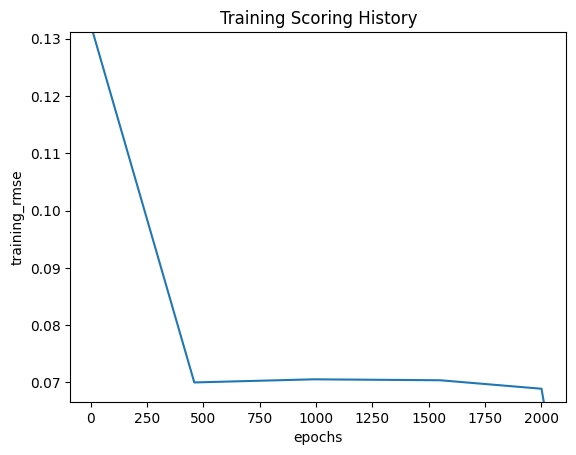
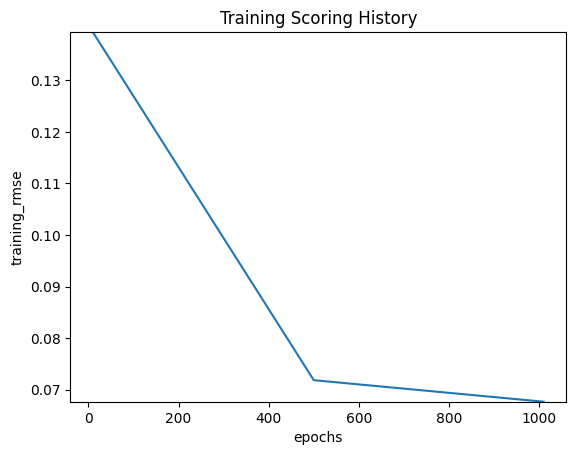
changed selected cols 2, add binder and dipsersant. Added  col_dtypes config for h2o.

diff --git a/analysis_model.py b/analysis_model.py
@@ -11,7 +11,7 @@ import numpy as np
 # Load generated df
 DataParser = data_parser.DataParser()
 df = DataParser.load_complete_data_from_pickle()
-df = df[DataParser.selected_cols]
+df = df[DataParser.selected_cols_v2]
 df = DataParser.preprocess_dropna(df)
 opt_save = True
 selected_models_seed = 42
@@ -49,6 +49,7 @@ for model in models:
     data['mae'] = perf[perf[''] == 'mae']['mean'].values[0]
     data['mae_t'] = model.split("_")[4]
     data['mrd'] = models[model].mean_residual_deviance()
+    data['mrd'] = perf[perf[''] == 'mean_residual_deviance']['mean'].values[0]
     data['mrd_t'] = model.split("_")[5]
     new_row = df_r.from_dict([data])
     df_r = pd.concat([df_r, new_row], ignore_index=True)
@@ -59,10 +60,15 @@ for model in models:
         # if model.split("_")[0] == "DLE":
         #     continue
         df_var_importance = pd.concat([df_var_importance, var_importance], ignore_index=True)
+    print(model, "\n", models[model].cross_validation_metrics_summary())
 
 # Test best models for selected seed and compare
 # Load DF
-h2o_data = h2o.H2OFrame(df, destination_frame="CatNum")
+col_dtypes = {'name_part1': 'enum', 'name_part2': 'enum', 'name_fluid1': 'enum',
+              'material_group': 'enum', 'temp_cold': 'numeric', 'cooling_rate': 'numeric', 'time_sub': 'numeric',
+              'time_sinter_1': 'numeric', 'vf_total': 'numeric', 'porosity': 'numeric'}
+
+h2o_data = h2o.H2OFrame(df, destination_frame="CatNum", column_types=col_dtypes)
 train, test, valid = h2o_data.split_frame([0.7, 0.15], seed=selected_models_seed)
 train_valid = h2o.H2OFrame.rbind(train, valid)
 
@@ -82,7 +88,8 @@ for model_path in selected_seed_models:
     model_name = model_path.split('\\')[-1]
     model_type = model_path.split("_")[0]
     if model_type in ['GBM', "DRF"]:
-        models[model_name].download_mojo('mojos')  # download mojos  # Sometimes has to manual download: Run this line in console rather than script
+        models[model_name].download_mojo(
+            'mojos')  # download mojos  # Sometimes has to manual download: Run this line in console rather than script
     predicted = models[model_name].predict(test).as_data_frame()
 
     # Model Results
@@ -101,7 +108,7 @@ for model_path in selected_seed_models:
     df_true = pd.concat([df_true, df_model_results], axis=1)
     df_true = df_true.loc[:, ~df_true.columns.duplicated()]  # remove duplicate columns
     # Model performance plot
-    plt.figure(figsize=(8, 8))
+    plt.figure(figsize=(18, 12))
     ax = sns.scatterplot(x='porosity', y=model_type, data=df_true, hue=f'error_abs_{model_type}', palette=pallete)
     norm = plt.Normalize(0, 0.4)  # set min and max for color_bar
     sm = plt.cm.ScalarMappable(cmap=pallete, norm=norm)
@@ -118,10 +125,11 @@ for model_path in selected_seed_models:
     plt.savefig(f'images/results/{model_type}_perf', bbox_inches='tight')
 
     # Error distribution plot
-    plt.figure(figsize=(8, 8))
+    plt.figure(figsize=(18, 12))
     top3_material_group = df_true.material_group.value_counts().iloc[:3].index.to_list()
     df_true_mg = df_true[(df_true['material_group'].isin(top3_material_group))]
-    bx = sns.histplot(data=df_true_mg, x=f"error_{model_type}", hue="material_group", bins=20)
+    bx = sns.histplot(data=df_true_mg, x=f"error_{model_type}", hue="material_group", bins=20,
+                      palette=sns.color_palette("hls", 3))
     bx.set_xlabel("Error", fontsize=20)
     bx.set_ylabel(f"Sample count - {model_type} - seed 42", fontsize=20)
     bx.tick_params(labelsize=20)
@@ -130,31 +138,27 @@ for model_path in selected_seed_models:
     plt.show()
     plt.savefig(f'images/results/{model_type}_error', bbox_inches='tight')
 
-# # Generate Mojos for Decision Tress
-# models["DRF_2209171340_42_0.6664_0.0848_0.0124"].download_mojo('mojos')
-# models["GBM_2209171448_42_0.6315_0.0834_0.0145"].download_mojo('mojos')
+    """Importances"""""
+    df_r[['r2', 'r2_t', 'mae', 'mae_t', 'mrd', 'mrd_t']] = df_r[['r2', 'r2_t', 'mae', 'mae_t', 'mrd', 'mrd_t']].astype(
+        "float")
 
+    # df_grouped = df_var_importance.groupby('variable').mean()
+    df_imp = df_var_importance[df_var_importance['model_type'] == model_type]
+    top_variables = df_imp.groupby('variable')['scaled_importance'].mean().nlargest(15).index.to_list()
+    top_df = df_imp.loc[df_imp['variable'].isin(top_variables)]
+    sns.set(font_scale=1.2)
+    g = sns.catplot(data=top_df, kind="bar", x="variable", y="scaled_importance", hue="model_type",
+                    palette=sns.color_palette("hls", 3))
+    sns.set(rc={'figure.figsize': (18, 12)})
+    plt.tight_layout()
+    g.set_axis_labels("Parameters", "Scaled Importance - Decision Trees")
+    g.set_xticklabels(rotation=40, ha="right")
+    sns.move_legend(g, "upper right")
+    plt.subplots_adjust(bottom=0.4)
+    plt.show()
+    plt.savefig(f'images/results/{model_type}_scaled_importance_trees.png', bbox_inches='tight')
 
 # ################################## Generate Results and Tables
-# Scaled importance Group
-df_r[['r2', 'r2_t', 'mae', 'mae_t', 'mrd', 'mrd_t']] = df_r[['r2', 'r2_t', 'mae', 'mae_t', 'mrd', 'mrd_t']].astype(
-    "float")
-
-# df_grouped = df_var_importance.groupby('variable').mean()
-top_10_variables = df_var_importance.groupby('variable')['scaled_importance'].mean()  # .nlargest(2)
-sns.set(font_scale=1.2)
-
-g = sns.catplot(data=df_var_importance, kind="bar", x="variable", y="scaled_importance", hue="model_type",
-                palette=sns.color_palette("hls", 3))
-sns.set(rc={'figure.figsize': (10, 10)})
-plt.tight_layout()
-g.set_axis_labels("Parameters", "Scaled Importance")
-g.set_xticklabels(rotation=40, ha="right")
-sns.move_legend(g, "upper right")
-plt.subplots_adjust(bottom=0.4)
-plt.show()
-plt.savefig('images/results/scaled_importance.png', bbox_inches='tight')
-
 # Model Group Results, prints and tables
 pd.set_option('display.float_format', lambda x: '%.3g' % x)
 df_r['Δr2'] = df_r['r2'] - df_r['r2_t']

diff --git a/create_model_AutoML.py b/create_model_AutoML.py
@@ -18,11 +18,15 @@ ratios = [0.7, 0.15]  # training ratios [train (valid+test)/2]
 start = time.time()
 h2o.init(nthreads=-1, min_mem_size="8g")
 # Split the dataset into a train and valid set:
-h2o_data = h2o.H2OFrame(df, destination_frame="CatNum")
+col_dtypes = {'name_part1': 'enum', 'name_part2': 'enum', 'name_fluid1': 'enum', 'name_mold_mat': 'enum',
+              'name_disp_1': 'enum', 'name_bind1': 'enum', 'wf_bind_1': 'numeric',
+              'material_group': 'enum', 'temp_cold': 'numeric', 'cooling_rate': 'numeric', 'time_sub': 'numeric',
+              'time_sinter_1': 'numeric', 'temp_sinter_1': 'numeric', 'vf_total': 'numeric', 'porosity': 'numeric'}
+
+h2o_data = h2o.H2OFrame(df, destination_frame="CatNum", column_types=col_dtypes)
 
 # Automl opts
 max_models = 10
-
 
 df_data = pd.DataFrame()
 for seed in seeds:
@@ -35,7 +39,8 @@ for seed in seeds:
     test.frame_id = "Test"
     train_valid = h2o.H2OFrame.rbind(train, valid)
 
-    aml = H2OAutoML(max_models=max_models, seed=seed, stopping_metric='AUTO', nfolds=5, keep_cross_validation_predictions=True)
+    aml = H2OAutoML(max_models=max_models, seed=seed, stopping_metric='AUTO', nfolds=5,
+                    keep_cross_validation_predictions=True)
     print("Training")
     X = df[df.columns.drop('porosity')].columns.values.tolist()
     y = "porosity"
@@ -64,8 +69,8 @@ for seed in seeds:
 
 print(df_data)
 r2, mae, mrd = df_data['r2'].mean(), df_data['mae'].mean(), df_data['mrd'].mean()
-r2, mae, mrd, diff = "{:.04f}".format(r2), "{:.04f}".format(mae), "{:.04f}".format(mrd),\
-                     "{:.04f}".format(best_model.r2() - r2)
+r2, mae, mrd, diff = "{:.04f}".format(r2), "{:.04f}".format(mae), "{:.04f}".format(mrd), \
+    "{:.04f}".format(best_model.r2() - r2)
 
 print("Mean residual deviance: ", mrd)
 print("Mean absolut error: ", mae)
@@ -74,11 +79,10 @@ print("Difference of r^2 between test and train: ", diff)
 
 now = datetime.datetime.now().strftime("%y%m%d%H%M")
 h2o.save_model(best_model, path="temp/AutoML_model", filename=f"AutoML_{now}_{seed}_{r2}_{mae}_{mrd}", force=True)
-print("Elapsed {:.04f} minutes".format((time.time() - start)/60))
+print("Elapsed {:.04f} minutes".format((time.time() - start) / 60))
 print(best_model.base_models)
 
-
-print("Elapsed {:.04f} minutes".format((time.time() - start)/60))
+print("Elapsed {:.04f} minutes".format((time.time() - start) / 60))
 df_r2 = pd.DataFrame(r2s)
 print(best_model.actual_params)
 print('Mean all r2s', df_r2.mean())

diff --git a/create_model_DLE.py b/create_model_DLE.py
@@ -22,8 +22,12 @@ r2s = []
 start = time.time()
 h2o.init(nthreads=-1, min_mem_size="8g")
 # Split the dataset into a train and valid set:
-h2o_data = h2o.H2OFrame(df, destination_frame="CatNum")
+col_dtypes = {'name_part1': 'enum', 'name_part2': 'enum', 'name_fluid1': 'enum', 'name_mold_mat': 'enum',
+              'name_disp_1': 'enum', 'name_bind1': 'enum', 'wf_bind_1': 'numeric',
+              'material_group': 'enum', 'temp_cold': 'numeric', 'cooling_rate': 'numeric', 'time_sub': 'numeric',
+              'time_sinter_1': 'numeric', 'temp_sinter_1': 'numeric', 'vf_total': 'numeric', 'porosity': 'numeric'}
 
+h2o_data = h2o.H2OFrame(df, destination_frame="CatNum", column_types=col_dtypes)
 
 cv = True
 
@@ -35,7 +39,7 @@ for seed in seeds:
     test.frame_id = "Test"
     grid_params = dict()
     grid_params['hidden'] = [ [100, 50, 25]]  #  [100, 50, 25], [50, 25, 10], [200, 100, 50], [100, 50, 25, 10], [50, 25, 10], [100, 50, 25, 10, 5], [2000, 70, 50, 25, 10]]  #  Best: 100/50/25
-    grid_params['epochs'] = [2000]  # 1000
+    grid_params['epochs'] = [1000]  # 1000
     grid_params['activation'] = ['Rectifier']  # 'TanhWithDropout', 'RectifierWithDropout'
     # grid_params['tweedie_power'] = [1.2]
     # grid_params['score_interval'] = [5.0, 3.0, 10.0]
@@ -46,7 +50,7 @@ for seed in seeds:
     grid_params['loss'] = ['Absolute']  # 'Quadratic', 'Huber'
     grid_params['reproducible'] = [False]  # False
     grid_params['seed'] = [seed]
-    grid_params['stopping_rounds'] = [10]  # 20
+    grid_params['stopping_rounds'] = [7]  # 20
     #grid_params['variable_importances'] = [True]
 
     rnn_grid = H2OGridSearch(model=H2ODeepLearningEstimator(standardize=True, seed=seed, keep_cross_validation_predictions=True, nfolds=5),

diff --git a/create_model_DRF_grid.py b/create_model_DRF_grid.py
@@ -20,14 +20,19 @@ df = DataParser.preprocess_dropna(df)
 opt_save = True
 seeds = [42]
 r2s = []
+h2o.init(nthreads=-1, min_mem_size_GB=10)
+
+col_dtypes = {'name_part1': 'enum', 'name_part2': 'enum', 'name_fluid1': 'enum', 'name_mold_mat': 'enum',
+              'name_disp_1': 'enum', 'name_bind1': 'enum', 'wf_bind_1': 'numeric',
+              'material_group': 'enum', 'temp_cold': 'numeric', 'cooling_rate': 'numeric', 'time_sub': 'numeric',
+              'time_sinter_1': 'numeric', 'temp_sinter_1': 'numeric', 'vf_total': 'numeric', 'porosity': 'numeric'}
+
+h2o_data = h2o.H2OFrame(df, destination_frame="CatNum", column_types=col_dtypes)
 
 
 for seed in seeds:
     start = time.time()
-    h2o.init(nthreads=-1, min_mem_size_GB=10)
 
-    # Split the dataset into a train and valid set:
-    h2o_data = h2o.H2OFrame(df, destination_frame="CatNum")
 
     train, test, valid = h2o_data.split_frame([0.7, 0.15], seed=seed)
     train_valid = h2o.H2OFrame.rbind(train, valid)

diff --git a/create_model_GBM_grid.py b/create_model_GBM_grid.py
@@ -30,7 +30,12 @@ r2s = []
 for seed in seeds:
     h2o.init(nthreads=-1, min_mem_size_GB=8)
     # Split the dataset into a train and valid set:
-    h2o_data = h2o.H2OFrame(df, destination_frame="CatNum")
+    col_dtypes = {'name_part1': 'enum', 'name_part2': 'enum', 'name_fluid1': 'enum', 'name_mold_mat': 'enum',
+                  'name_disp_1': 'enum', 'name_bind1': 'enum', 'wf_bind_1': 'numeric',
+                  'material_group': 'enum', 'temp_cold': 'numeric', 'cooling_rate': 'numeric', 'time_sub': 'numeric',
+                  'time_sinter_1': 'numeric', 'temp_sinter_1': 'numeric', 'vf_total': 'numeric', 'porosity': 'numeric'}
+
+    h2o_data = h2o.H2OFrame(df, destination_frame="CatNum", column_types=col_dtypes)
     train, valid, test = h2o_data.split_frame(ratios, seed=seed)
     train_valid = h2o.H2OFrame.rbind(train, valid)
     train.frame_id = "Train"

diff --git a/data_parser.py b/data_parser.py
@@ -79,7 +79,8 @@ class DataParser:
                      'temp_cold': 'Temp. Cold', 'cooling_rate': 'Cooling Rate',
                      'time_sub': "Time Sub",
                      'time_sinter_1': 'Time Sinter', 'temp_sinter_1': 'Temp. Sinter', 'vf_total': 'Solid Loading',
-                     'porosity': 'porosity'
+                     'porosity': 'porosity', 'name_disp_1': 'Disp. Name 1', 'name_bind_1': 'Binder Name', 'wf_bind_1': 'Binder wf.',
+                     'name_mold_mat': 'Mold Material Name'
 
                      }, inplace=True)
         return df

diff --git a/analysis_data.py b/analysis_data.py
@@ -25,7 +25,7 @@ pio.renderers.default = "browser"
 # Load Data
 DataParser = data_parser.DataParser()
 df = DataParser.load_complete_data_from_pickle()
-df = df[DataParser.selected_cols]
+df = df[DataParser.selected_cols_v2]
 df = DataParser.preprocess_dropna(df)
 df = DataParser.rename_columns(df)
 
